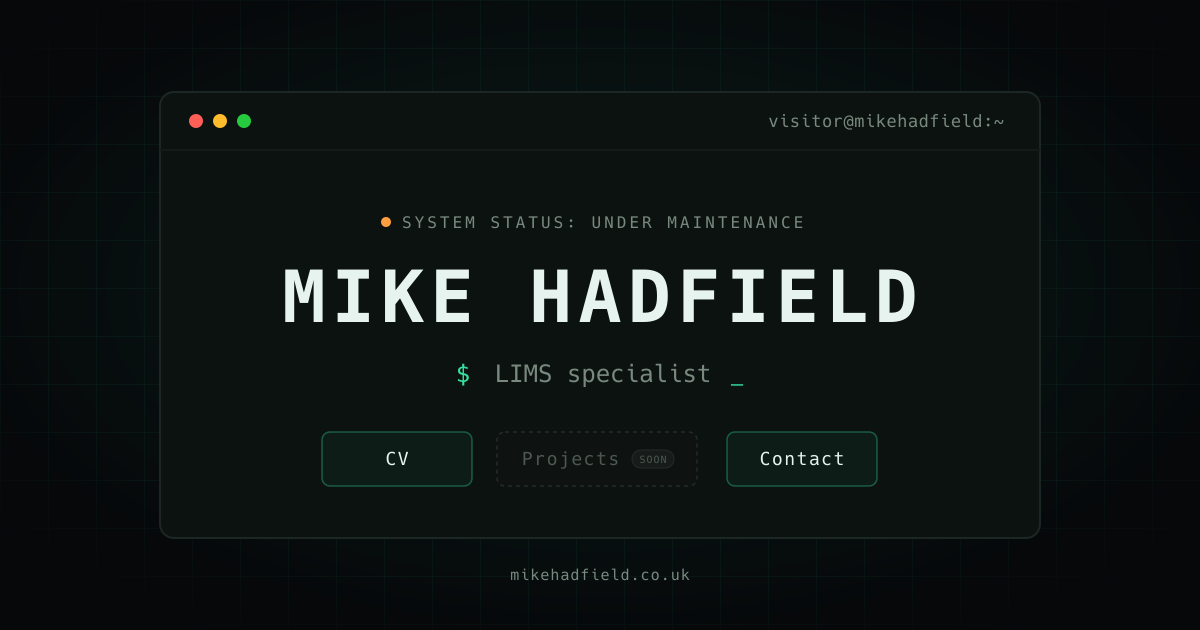
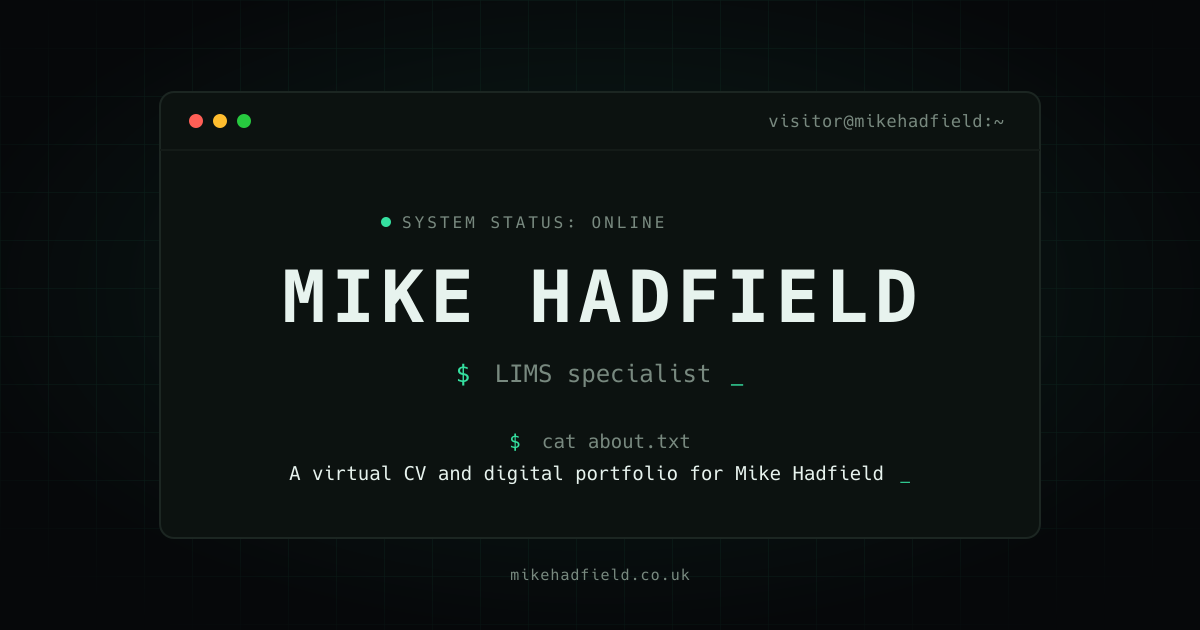
meta header change

diff --git a/index.html b/index.html
@@ -58,6 +58,10 @@
                         <span class="link-btn__label">Projects</span>
                         <span class="link-btn__tag">soon</span>
                     </button>
+                    <button class="link-btn" type="button" disabled title="Coming soon">
+                        <span class="link-btn__label">Music</span>
+                        <span class="link-btn__tag">soon</span>
+                    </button>
                     <button class="link-btn link-btn--active" type="button" id="contact-btn">
                         <span class="link-btn__label">Contact</span>
                         <span class="link-btn__arrow" aria-hidden="true">&rarr;</span>
